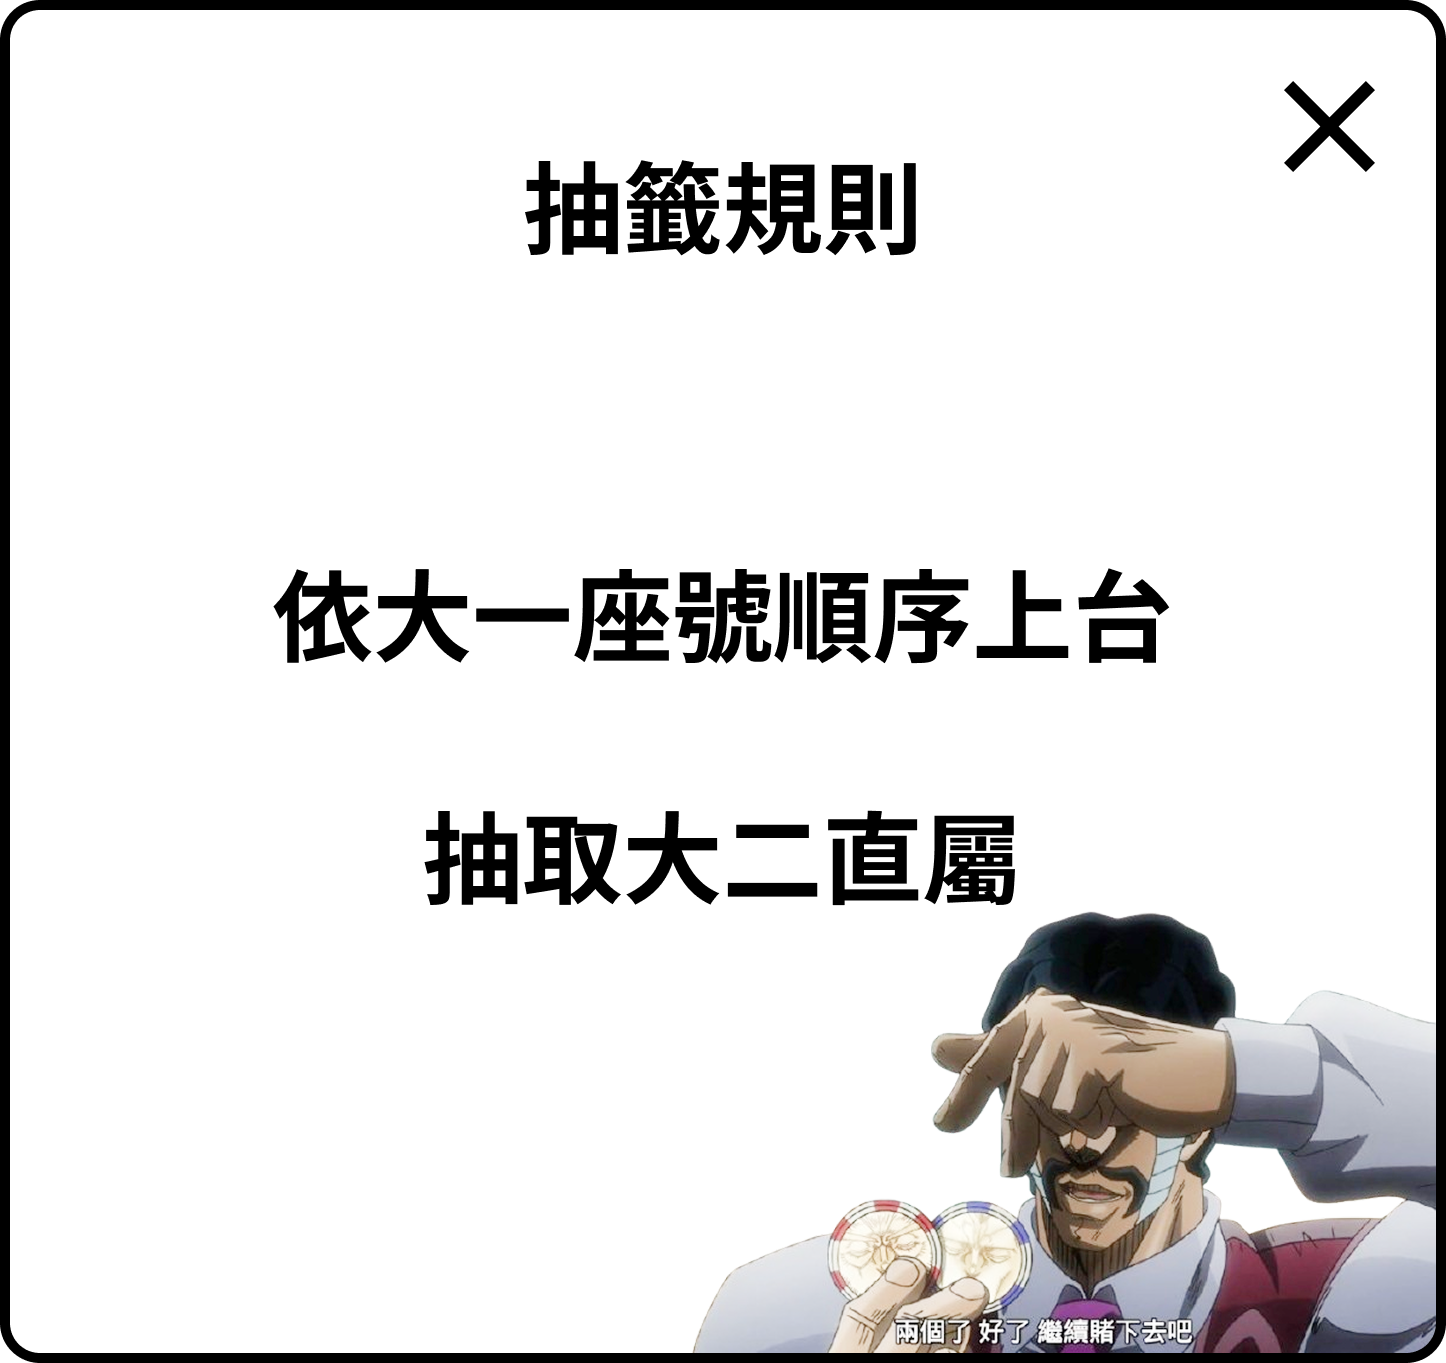
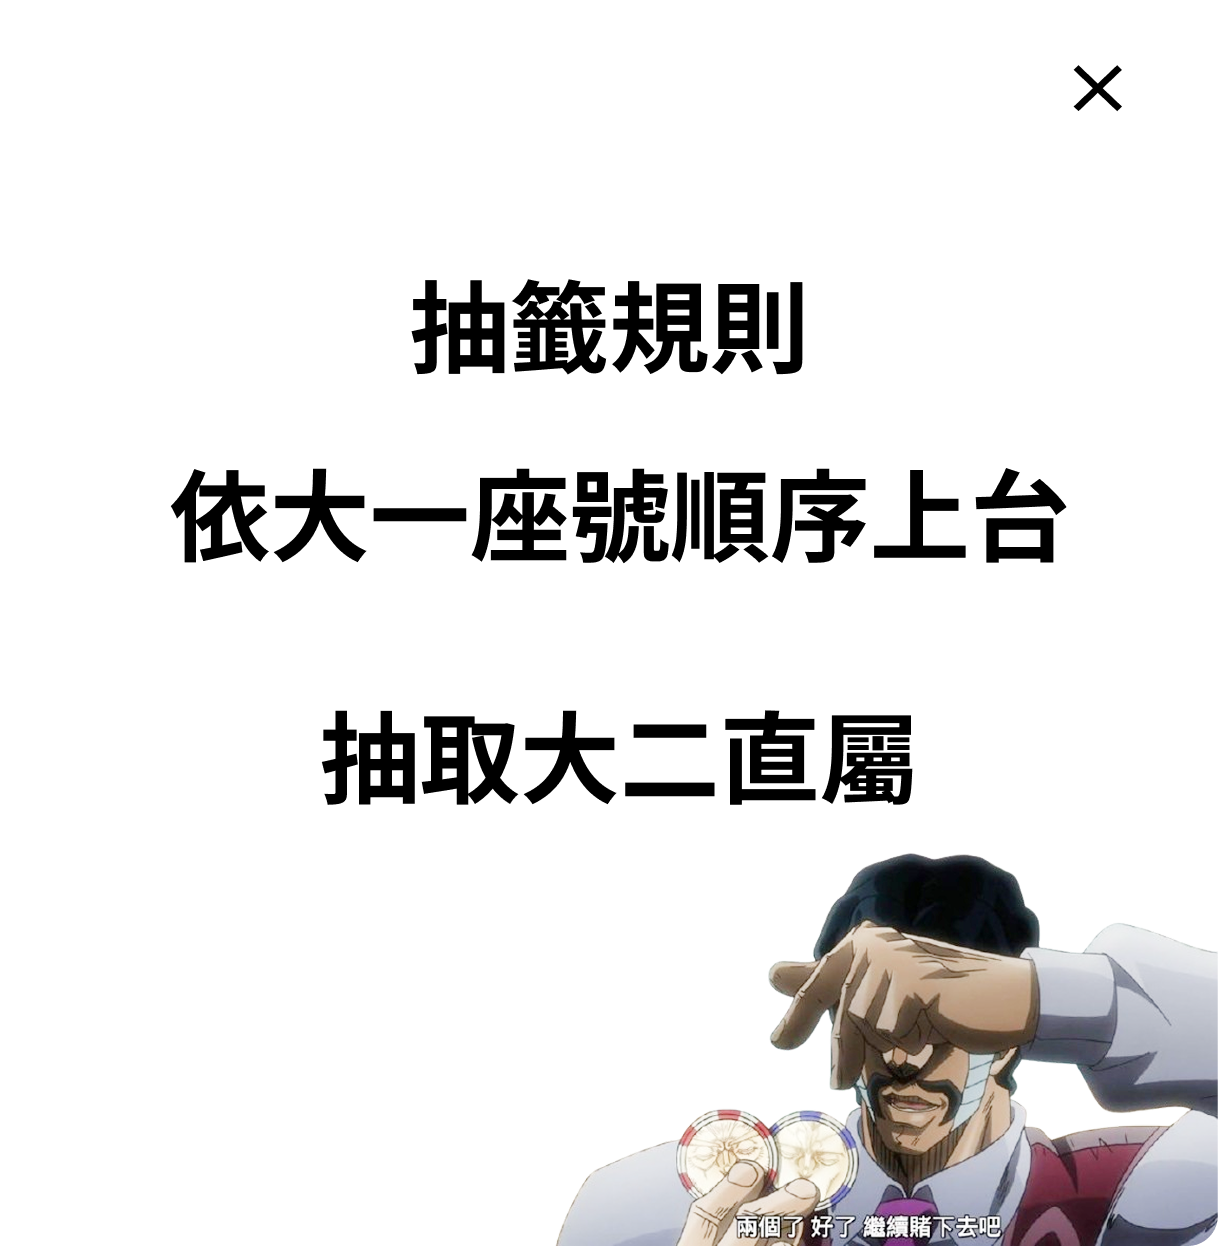
Update UI for lottery pages

diff --git a/lib/homePage.dart b/lib/homePage.dart
@@ -78,174 +78,154 @@ class _HomePageState extends State<HomePage>
           new Container(
             decoration: new BoxDecoration(
               image: new DecorationImage(
-                image: new AssetImage("frame.png"),
+                image: new AssetImage("planetBackground.gif"),
                 fit: BoxFit.cover,
               ),
             ),
           ),
-          Center(
-            child: Container(
-              child: Lottie.network(
-                "https://lottie.host/9111819e-dd4c-4dd7-9642-14a95bb7ce89/pQYsCc14II.json",
-                fit: BoxFit.fill,
-              ),
-            ),
-          ),
+          // Center(
+          //   child: Container(
+          //     child: Lottie.network(
+          //       "https://lottie.host/9111819e-dd4c-4dd7-9642-14a95bb7ce89/pQYsCc14II.json",
+          //       fit: BoxFit.fill,
+          //     ),
+          //   ),
+          // ),
           FutureBuilder(
             future: _initialization,
             builder: (context, snapshot) {
               if (snapshot.connectionState == ConnectionState.done) {
                 return Row(
-                  children: [
-                    Column(
+                  mainAxisAlignment: MainAxisAlignment.spaceBetween,
+                  crossAxisAlignment: CrossAxisAlignment.center,
                       children: [
-                        Lottie.network(
-                          // "https://lottie.host/dbd2c727-bd2b-4895-9cba-fd8c72ccf15c/VMJxvbNY8G.json",
-                          // 'https://lottie.host/bc541e6a-dfc0-49fd-bba4-3c2fb79b6d88/VwGUcKFf0k.json',
-                          // 'https://lottie.host/680d06cc-e594-4777-9b45-e867aa7bc42a/3SgiJthyHx.json',
-                          'https://lottie.host/c7f97e36-0089-43f7-9b1f-722194fe3006/VQPngUaw9T.json',
-                          width: 750,
-                          height: 300,
-                        ),
-                        SizedBox(height: 8),
-                        Container(
-                          padding: const EdgeInsets.all(8.0),
-                          margin: const EdgeInsets.all(3),
-                          decoration: BoxDecoration(
-                            color:Colors.white,
-                            border: Border.all(width: 5),
-                            borderRadius: BorderRadius.circular(10),
-                          ),
-                          child: Row(
-                            children: [
-                              Text(
-                                '大一直屬 👉 ',
-                                textAlign: TextAlign.left,
-                                style: GoogleFonts.inter(
-                                  fontSize: 40,
-                                  fontWeight: FontWeight.w800,
-                                ),
+                        SizedBox(width: 30),
+                        Column(
+                          children: [
+                            SizedBox(height: 180,),
+                            Lottie.network(
+                              'https://lottie.host/c7f97e36-0089-43f7-9b1f-722194fe3006/VQPngUaw9T.json',
+                              width: 400,
+                              height: 180,
+                            ),
+                            Container(
+                              padding: const EdgeInsets.all(8.0),
+                              margin: const EdgeInsets.all(5),
+                              decoration: BoxDecoration(
+                                color: Colors.white.withOpacity(0.6),
+                                borderRadius: BorderRadius.circular(10),
                               ),
-                              SizedBox(width: 3),
-                              Text(
-                                '${currentFreshman ?? ''}',
-                                textAlign: TextAlign.left,
-                                style: GoogleFonts.inter(
-                                  fontSize: 70,
-                                  fontWeight: FontWeight.w800,
-                                  color: Colors.deepPurpleAccent,
+                              child: Row(
+                                children: [
+                                  Text(
+                                    '大一直屬   ',
+                                    textAlign: TextAlign.center,
+                                    style: GoogleFonts.inter(
+                                      fontSize: 40,
+                                      fontWeight: FontWeight.w800,
+                                    ),
+                                  ),
+                                  SizedBox(width: 8 ),
+                                  Text(
+                                    '${currentFreshman ?? ''}',
+                                    textAlign: TextAlign.left,
+                                    style: GoogleFonts.inter(
+                                      fontSize: 80,
+                                      fontWeight: FontWeight.w800,
+                                      color: Colors.deepPurple[800],
+                                    ),
+                                  ),
+                                ],
+                              ),
+                            ),
+                            Container(
+                              padding: const EdgeInsets.all(8.0),
+                              margin: const EdgeInsets.all(5),
+                              decoration: BoxDecoration(
+                                color: Colors.white.withOpacity(0.6),
+                                borderRadius: BorderRadius.circular(10),
+                              ),
+                              child: Row(
+                                children: [
+                                  Text(
+                                    'Pull the lever 👉👉👉👉 ',
+                                    textAlign: TextAlign.center,
+                                    style: GoogleFonts.inter(
+                                      fontSize: 35,
+                                      fontWeight: FontWeight.w800,
+                                    ),
+                                  ),
+                                ],
+                              ),
+                            ),
+                          ],
+                        ),
+                        Center(
+                          child: Column(
+                            children: [
+                              SizedBox(height: 300),
+                              GestureDetector(
+                                onTap: () async {
+                                  _Controller.reset();
+                                  await _Controller.forward();
+                                  choosingstudent.chooseStudent(index);
+                                  choosingstudent.storeStudent(index++);
+                                  final chosen = choosingstudent.showStudent();
+                                  choosingstudent.deleteStudent();
+
+                                  if (freshmanQueue.isNotEmpty) {
+                                    setState(() {
+                                      currentFreshman = freshmanQueue
+                                          .removeFirst();
+                                    });
+                                  } else {
+                                    setState(() {
+                                      currentFreshman = null;
+                                      Navigator.pushReplacement(
+                                        context,
+                                        MaterialPageRoute(
+                                          builder: (context) => AllDonePage(),
+                                        ),
+                                      );
+                                    });
+                                  }
+                                  playSound();
+                                  Navigator.push(
+                                    context,
+                                    MaterialPageRoute(
+                                      builder: (context) {
+                                        return ResultPage(name: chosen);
+                                      },
+                                    ),
+                                  );
+                                },
+                                child: Lottie.network(
+                                  // 'https://lottie.host/9baed0fd-b873-4e87-b237-356b8579f1a0/T3cbB7oWgQ.json',
+                                 'https://lottie.host/cb30d6de-ff10-48ce-9cbf-637e1fb0f6ad/d3eB349ROi.json',
+                                  controller: _Controller,
+                                  width: 350,
+                                  height: 350,
                                 ),
                               ),
                             ],
                           ),
                         ),
-                        GestureDetector(
-                          onTap: () async {
-                            _Controller.reset();
-                            await _Controller.forward();
-                            choosingstudent.chooseStudent(index);
-                            choosingstudent.storeStudent(index++);
-                            final chosen = choosingstudent.showStudent();
-                            choosingstudent.deleteStudent();
-
-                            if (freshmanQueue.isNotEmpty) {
-                              setState(() {
-                                currentFreshman = freshmanQueue.removeFirst();
-                              });
-                            } else {
-                              setState(() {
-                                currentFreshman = null;
-                                Navigator.pushReplacement(
-                                  context,
-                                  MaterialPageRoute(
-                                    builder: (context) => AllDonePage(),
-                                  ),
-                                );
-                              });
-                            }
-
-                            playSound();
-                            Navigator.push(
-                              context,
-                              MaterialPageRoute(
-                                builder: (context) {
-                                  return ResultPage(name: chosen);
-                                },
-                              ),
-                            );
-                          },
-                          child: Lottie.network(
-                            'https://lottie.host/9baed0fd-b873-4e87-b237-356b8579f1a0/T3cbB7oWgQ.json',
-                            controller: _Controller,
-                            width: 200,
-                            height: 200,
-                          ),
-                        ),
-                      ],
-                    ),
-                    Expanded(
-                      child: Column(
-                        children: [
-                          SizedBox(height: 30),
-                          Container(
-                            width: 650,
-                            height: 500,
-                            decoration: new BoxDecoration(
-                              image: new DecorationImage(
-                                image: new AssetImage("rule.png"),
+                        Column(
+                          children: [
+                            SizedBox(height: 250),
+                            Container(
+                              width: 400,
+                              height: 350,
+                              decoration: new BoxDecoration(
+                                image: new DecorationImage(
+                                  image: new AssetImage("rule.png"),
+                                ),
                               ),
                             ),
-                          ),
-                          // Row(
-                          //   children: [
-                          //     Container(
-                          //       child: Lottie.network(
-                          //         'https://lottie.host/e7665d8d-7e7c-4bf2-8866-216df20859d0/UjEwkqyPAQ.json',
-                          //         width: 100,
-                          //         height: 100,
-                          //       ),
-                          //     ),
-                          //     Container(
-                          //       child: Lottie.network(
-                          //         'https://lottie.host/e7665d8d-7e7c-4bf2-8866-216df20859d0/UjEwkqyPAQ.json',
-                          //         width: 100,
-                          //         height: 100,
-                          //       ),
-                          //     ),
-                          //     Container(
-                          //       child: Lottie.network(
-                          //         'https://lottie.host/e7665d8d-7e7c-4bf2-8866-216df20859d0/UjEwkqyPAQ.json',
-                          //         width: 100,
-                          //         height: 100,
-                          //       ),
-                          //     ),
-                          //     Container(
-                          //       child: Lottie.network(
-                          //         'https://lottie.host/e7665d8d-7e7c-4bf2-8866-216df20859d0/UjEwkqyPAQ.json',
-                          //         width: 100,
-                          //         height: 100,
-                          //       ),
-                          //     ),
-                          //     Container(
-                          //       child: Lottie.network(
-                          //         'https://lottie.host/e7665d8d-7e7c-4bf2-8866-216df20859d0/UjEwkqyPAQ.json',
-                          //         width: 100,
-                          //         height: 100,
-                          //       ),
-                          //     ),
-                          //     Container(
-                          //       child: Lottie.network(
-                          //         'https://lottie.host/e7665d8d-7e7c-4bf2-8866-216df20859d0/UjEwkqyPAQ.json',
-                          //         width: 100,
-                          //         height: 100,
-                          //       ),
-                          //     ),
-                          //   ],
-                          // ),
-                        ],
-                      ),
-                    ),
-                  ],
+                          ],
+                        ),
+                        SizedBox(width: 30),
+                      ],
                 );
               } else {
                 return Center(child: CircularProgressIndicator());

diff --git a/lib/resultPage.dart b/lib/resultPage.dart
@@ -16,16 +16,16 @@ class _ResultPageState extends State<ResultPage> {
     final double appBarHeight = AppBar().preferredSize.height;
   final double statusBarHeight = MediaQuery.of(context).padding.top;
     return Scaffold(
-      appBar: AppBar(title: const Text('Result')), // 建議加上 const
+      appBar: AppBar(title: const Text('Result')),
       body: Stack(
 
         children: <Widget>[
 
           Container(
-            decoration: const BoxDecoration( // 建議加上 const
+            decoration: const BoxDecoration(
               image: DecorationImage(
-                image: AssetImage("assets/frame2.png"), // 確保你的圖片路徑是 assets/frame2.png
-                fit: BoxFit.cover, // 讓圖片填滿整個空間
+                image: AssetImage("assets/frame2.png"),
+                fit: BoxFit.cover,
               ),
             ),
           ),
@@ -33,7 +33,7 @@ class _ResultPageState extends State<ResultPage> {
 
           SizedBox(
             height: MediaQuery.of(context).size.height - (appBarHeight + statusBarHeight),
-            width: double.infinity, // 寬度填滿
+            width: double.infinity,
             child: Lottie.network(
               'https://lottie.host/216adf2c-75a4-420c-8986-bfbf12e806ec/VHW7qTjeRi.json',
               fit: BoxFit.cover,
@@ -45,12 +45,11 @@ class _ResultPageState extends State<ResultPage> {
             child: Stack(
               alignment: Alignment.center,
               children: [
-                // 本地 JSON 動畫
                 Lottie.asset(
                   'assets/animation.json',
-                  width: 450,
-                  height: 450,
-                  fit: BoxFit.contain, // 讓動畫完整顯示在指定大小內
+                  width: 750,
+                  height: 700,
+                  fit: BoxFit.contain,
                 ),
 
                 FittedBox(
